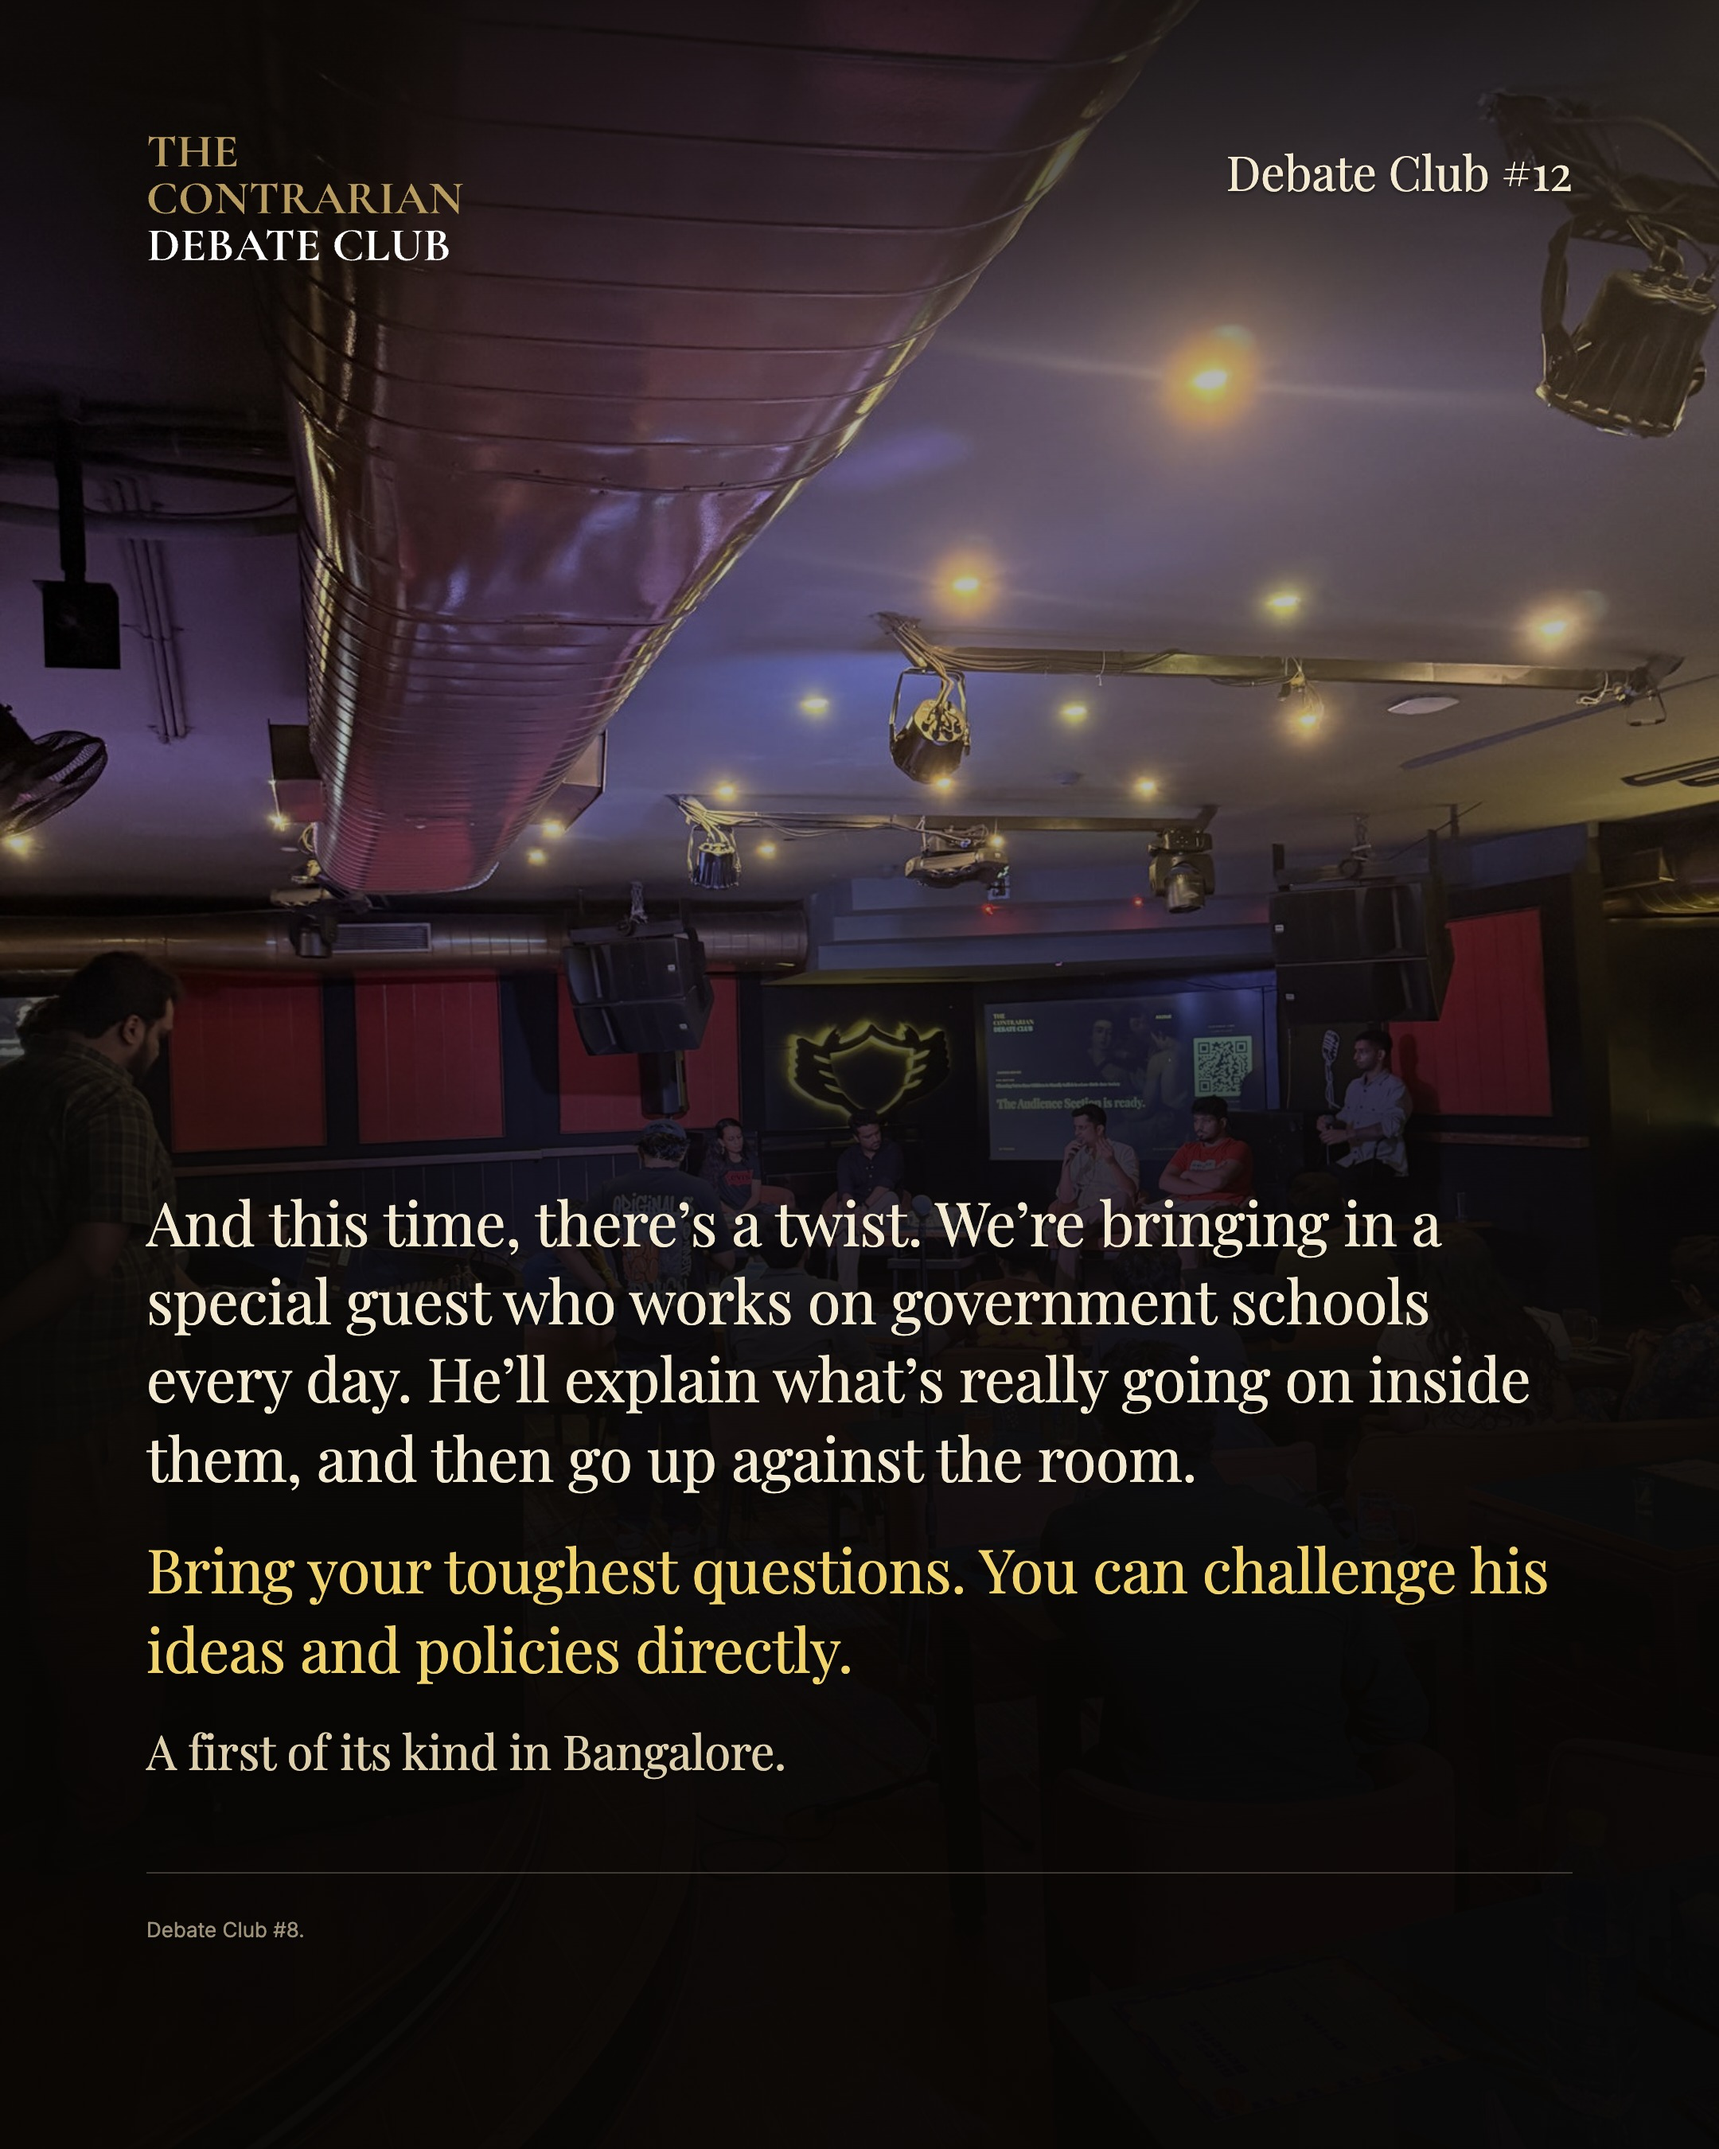
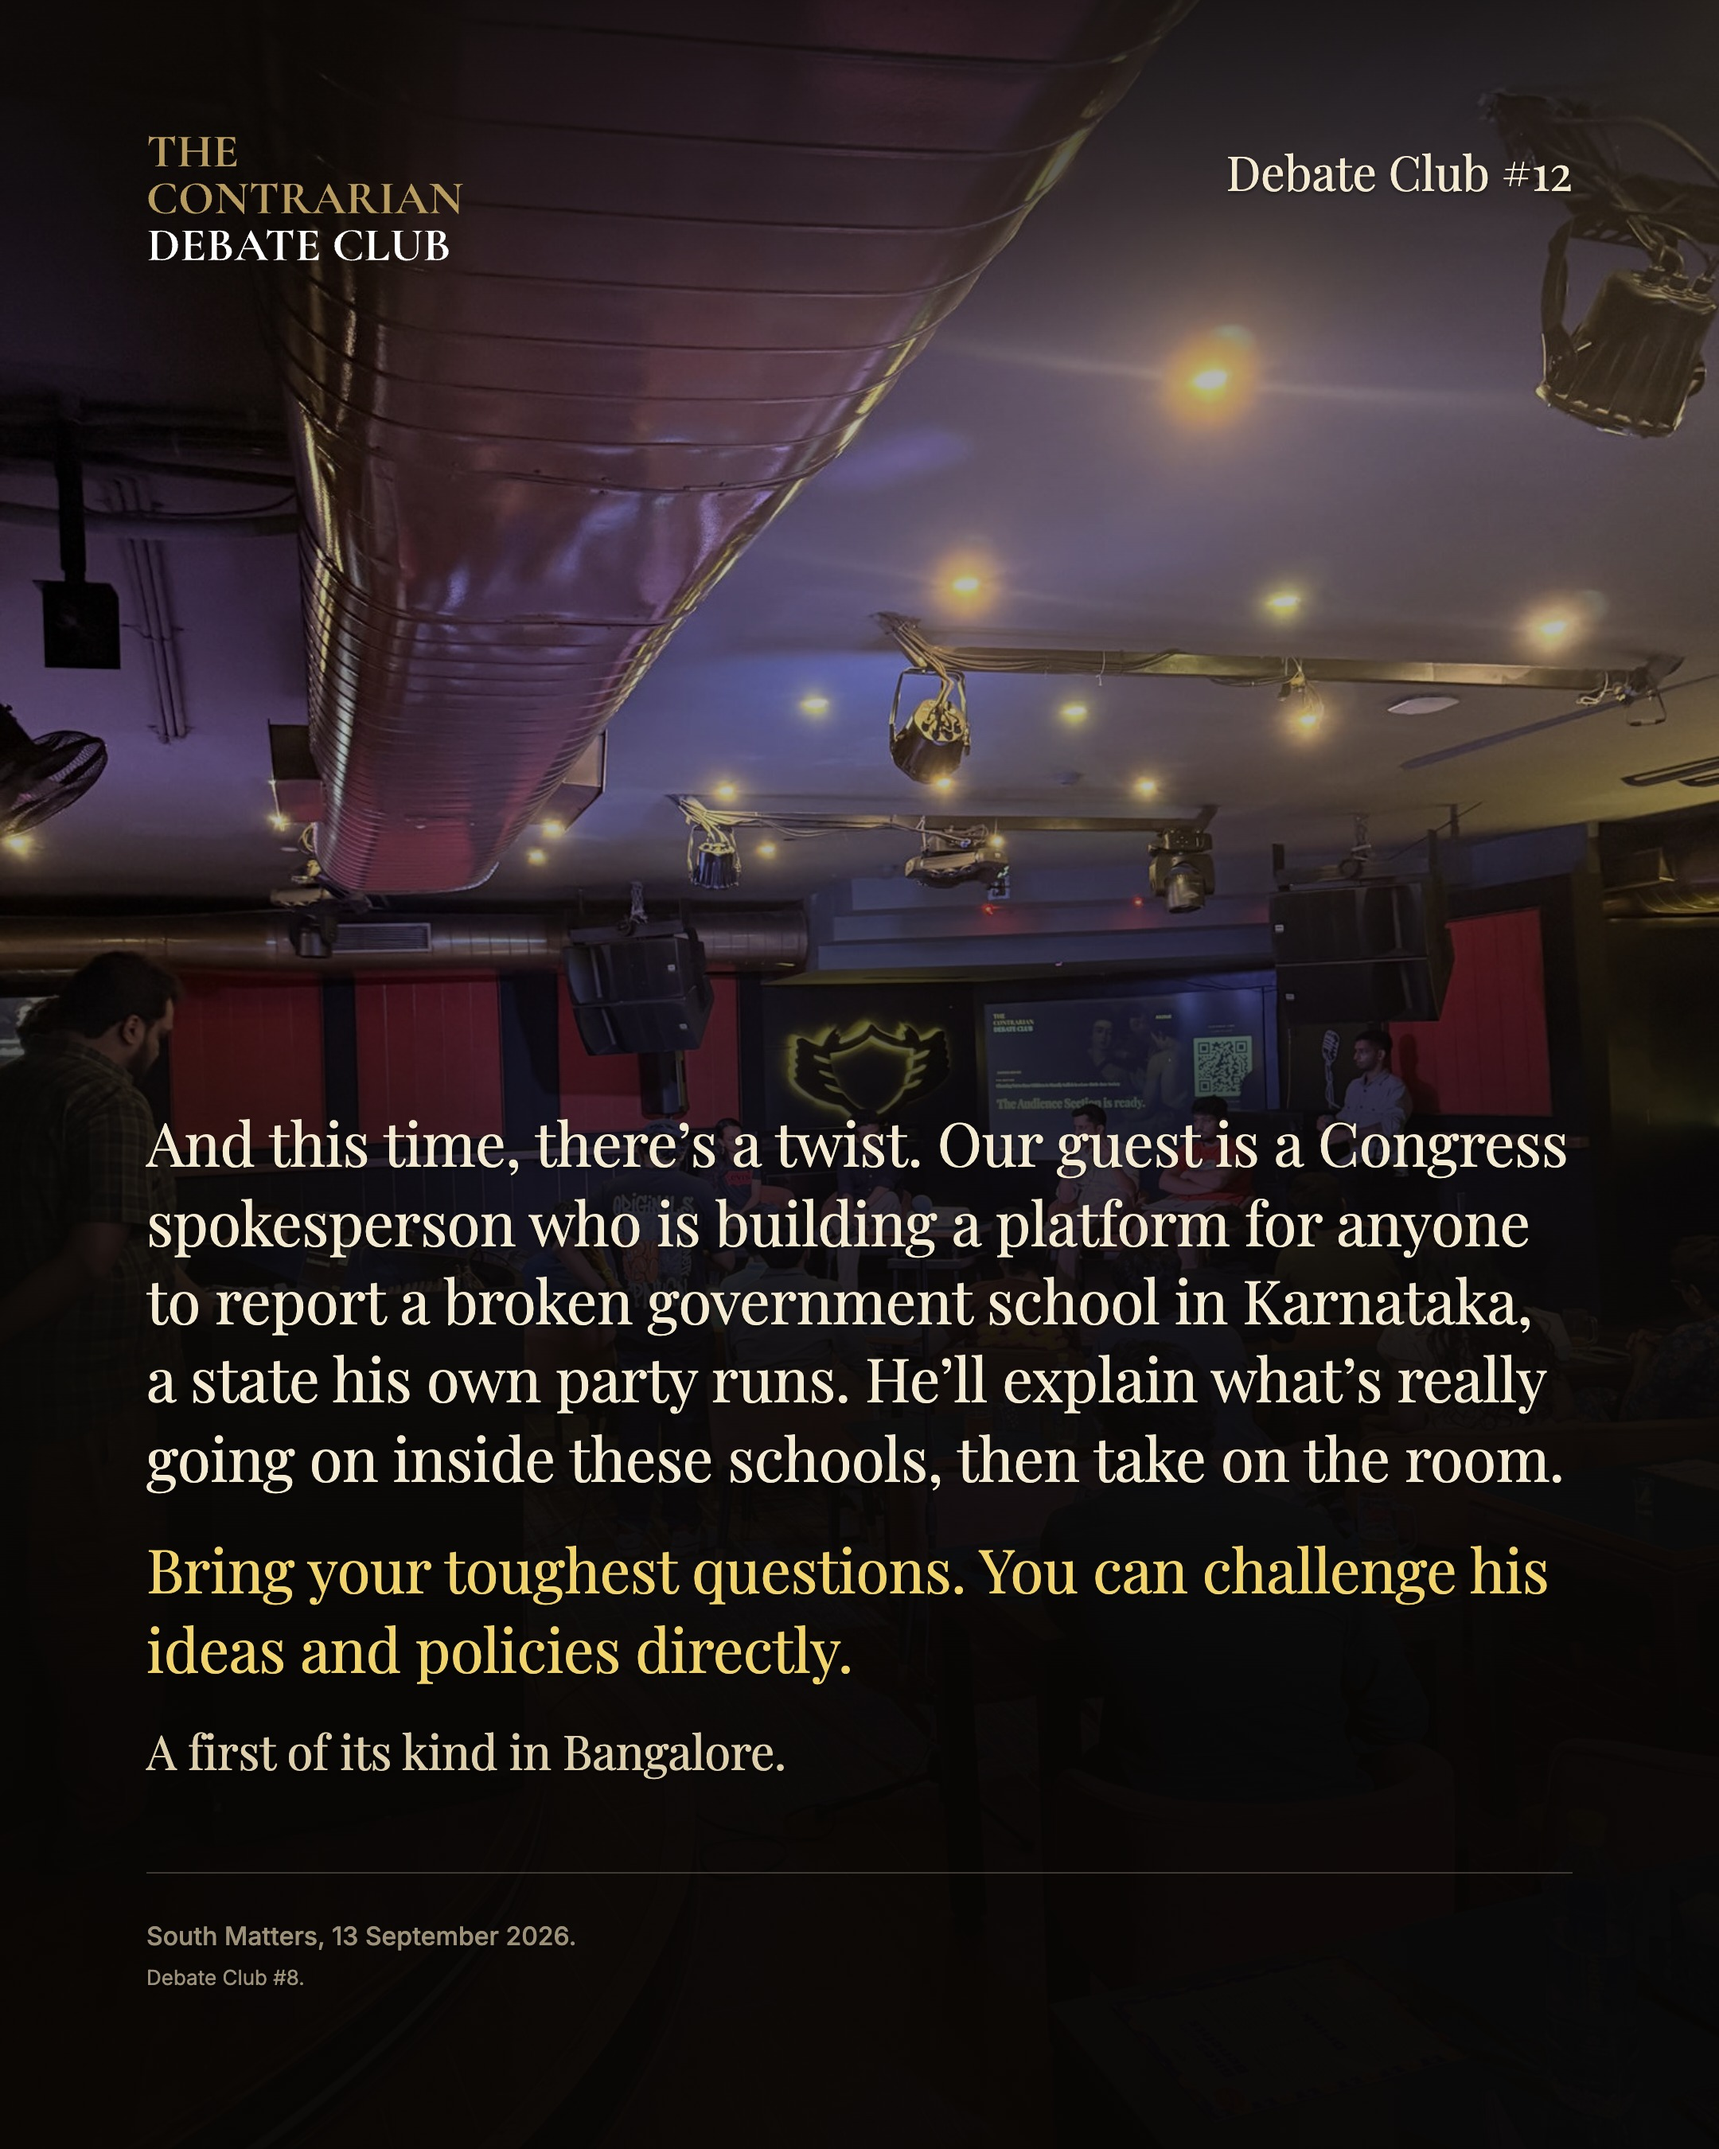
feat(posters): describe the Debate #12 guest on the schools carousel
Slide 8 now says the guest is a Congress spokesperson building a
platform to report broken government schools in a state his party
runs, without naming him.

Changed region(s): [[0.0931, 0.5289, 0.8995, 0.7156], [0.0931, 0.8711, 0.1861, 0.9333]]

diff --git a/posters/works/2026-10-10-debate-12-government-schools-carousel/spec.tsx b/posters/works/2026-10-10-debate-12-government-schools-carousel/spec.tsx
@@ -50,8 +50,18 @@ import { Beat, Hook, Motion, Poster, type Plate } from "./slides";
 //                                                mean cost per pupil under a
 //                                                third of government schools'
 //
-// Slides 4 and 6 are the club's argument and the opposition's, and cite
-// nothing. Slide 8's guest is the club's own news.
+//   slide 8  the guest: a Congress spokesperson    South Matters, 13 Sep 2026:
+//            building a platform to report         Dhruv Jatti, Congress
+//            broken government schools in          spokesperson, founded
+//            Karnataka                             NammaShale; 607 citizen
+//                                                  reports from 26 districts.
+//            a state his own party runs            Congress has governed
+//                                                  Karnataka since May 2023 (CM
+//                                                  D. K. Shivakumar since June
+//                                                  2026).
+//
+// The guest is described, not named, on purpose. Slides 4 and 6 are the
+// club's argument and the opposition's, and cite nothing.
 //
 // ---------------------------------------------------------------------------
 // The pictures. Free licensed from Wikimedia Commons and credited on their
@@ -278,7 +288,7 @@ const work: WorkSpec = {
           of={OF}
           edition={EDITION}
           foot={[
-            "And this time, there’s a twist. We’re bringing in a special guest who works on government schools every day. He’ll explain what’s really going on inside them, and then go up against the room.",
+            "And this time, there’s a twist. Our guest is a Congress spokesperson who is building a platform for anyone to report a broken government school in Karnataka, a state his own party runs. He’ll explain what’s really going on inside these schools, then take on the room.",
             {
               text: "Bring your toughest questions. You can challenge his ideas and policies directly.",
               tone: "gold",
@@ -286,6 +296,7 @@ const work: WorkSpec = {
             { text: "A first of its kind in Bangalore.", tone: "parchment", size: 30 },
           ]}
           footSize={38}
+          source="South Matters, 13 September 2026."
         />
       ),
     },

diff --git a/posters/works/2026-10-10-debate-12-government-schools-carousel/copy.md b/posters/works/2026-10-10-debate-12-government-schools-carousel/copy.md
@@ -12,8 +12,11 @@ rebuilding?
 
 ## Open questions
 
-- **The guest (slide 8).** Not named. A name and role would make the slide
-  far more credible. If he is from CJP, slide 2 and the hook can say so.
+- **The guest (slide 8)** is Dhruv Jatti, Congress spokesperson and founder
+  of NammaShale. The slide describes him without naming him, on purpose.
+  NammaShale's own count (13 September) has none of its 607 reports
+  independently verified as fixed. That would sharpen the slide but reads as
+  a jab at a guest, so it is left out.
 - **"A first of its kind in Bangalore."** The club's own claim, and not one
   anyone has checked. "A first for the club" is the safe version.
 - **Slide 1's photograph** is an empty classroom whose file does not say
